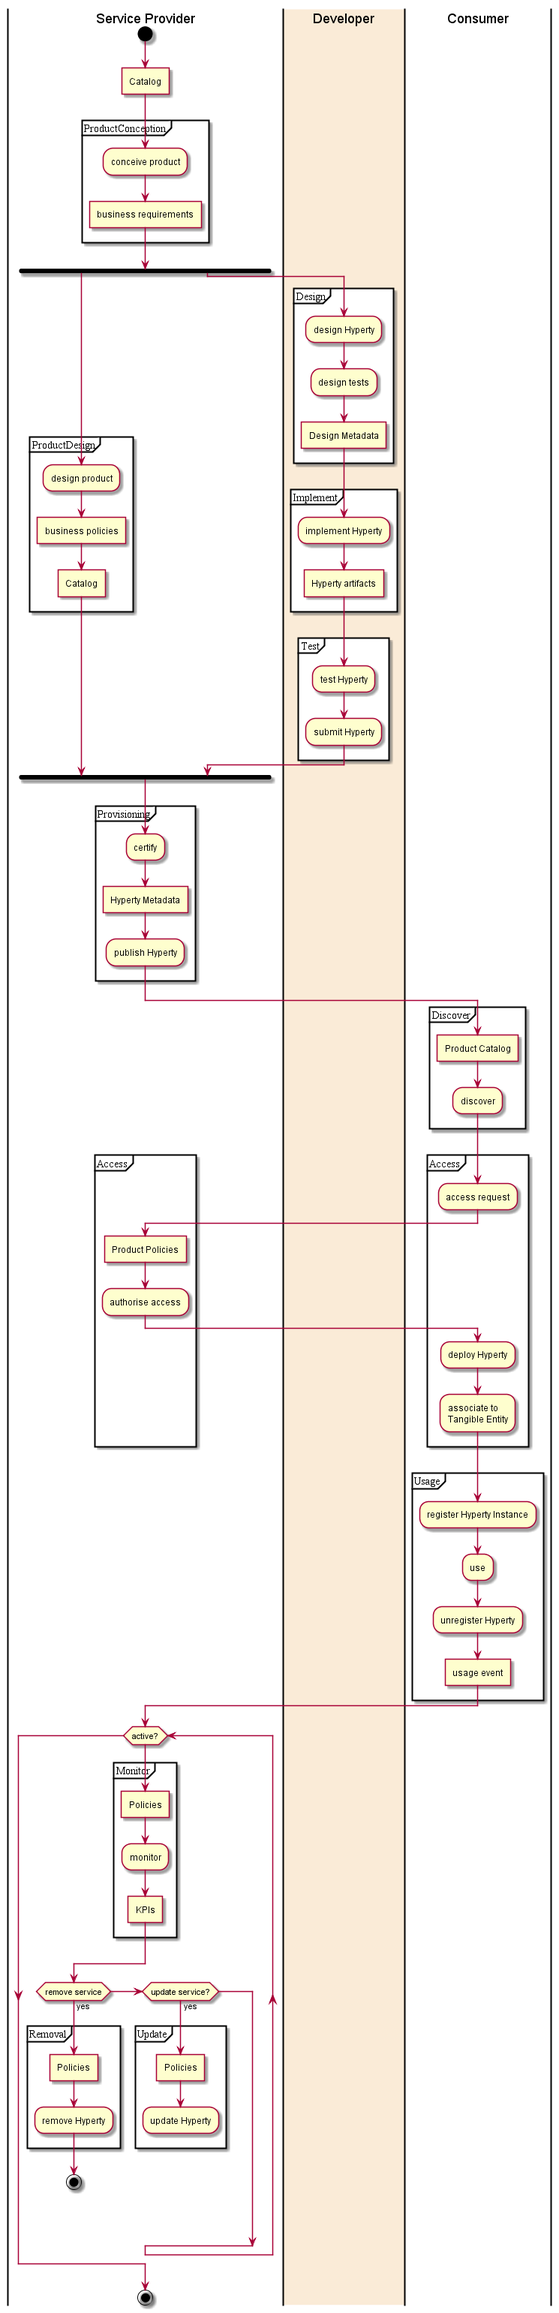
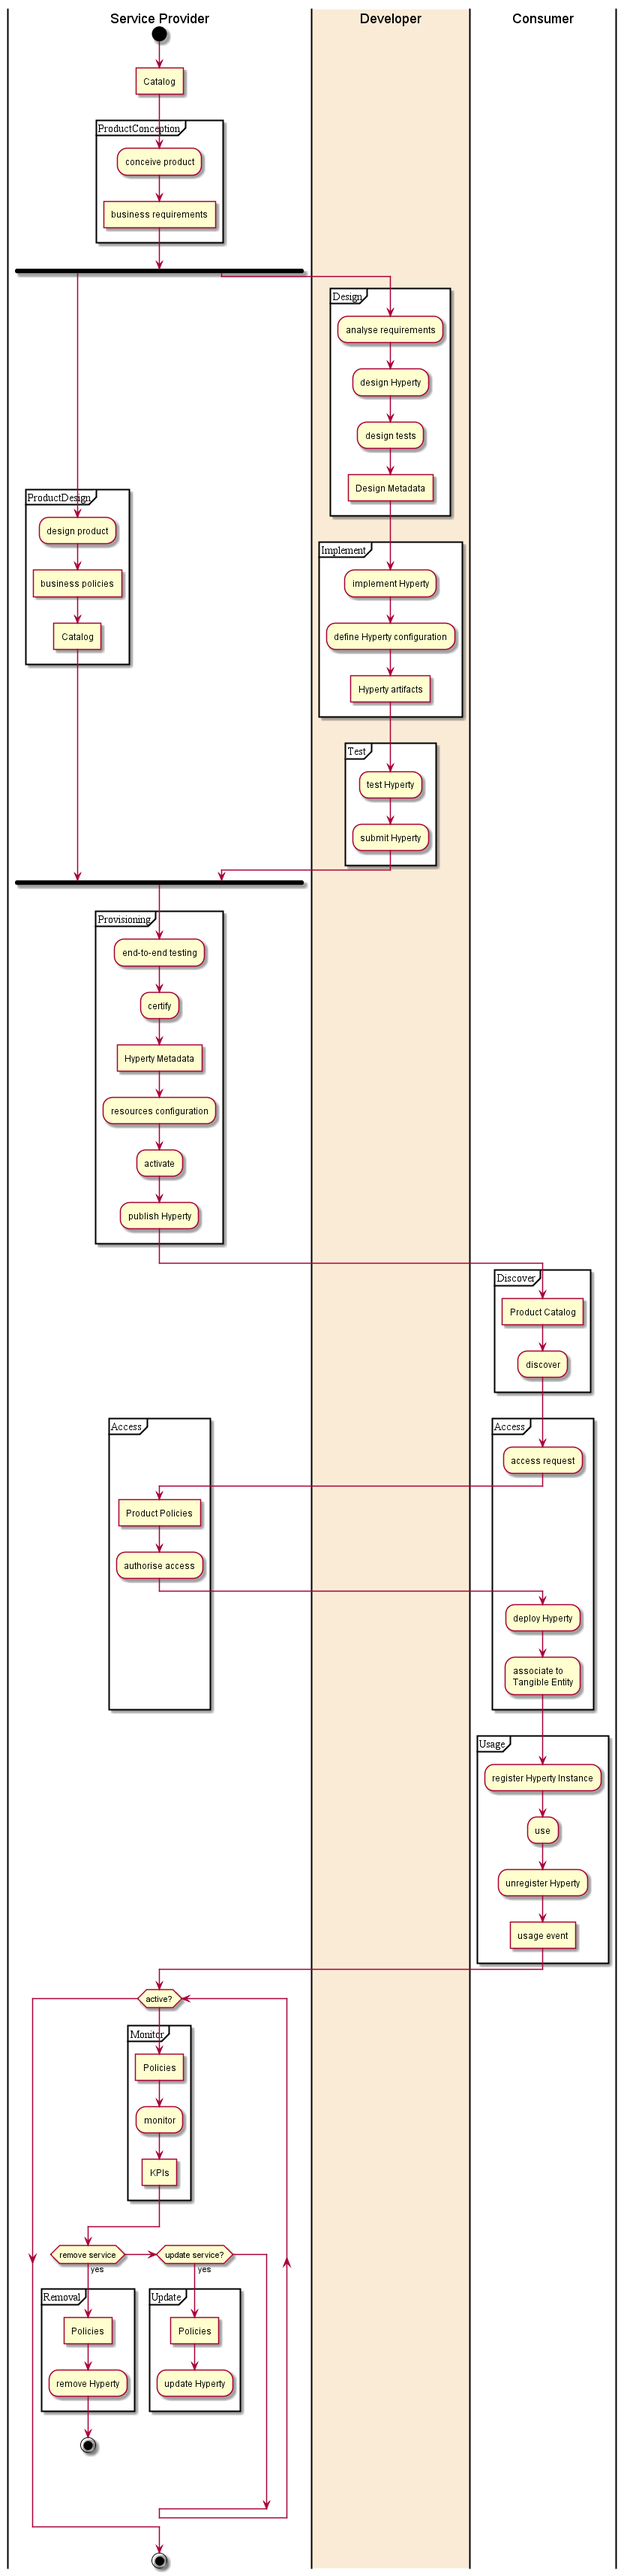
hyperty-life-cycle update

Changed region(s): [[0.0, 0.0, 1.0, 1.0], [0.5866, 0.0, 0.6483, 0.0311]]

diff --git a/docs/D1.1/business processes/hyperty-life-cycle.md b/docs/D1.1/business processes/hyperty-life-cycle.md
@@ -21,6 +21,7 @@ partition ProductDesign {
 
 |#AntiqueWhite|Developer|
 partition Design {
+	:analyse requirements;
     :design Hyperty;
     :design tests;
     :Design Metadata]
@@ -28,6 +29,7 @@ partition Design {
 
 partition Implement {
     :implement Hyperty;
+    :define Hyperty configuration;
     :Hyperty artifacts]
 }
 
@@ -39,8 +41,11 @@ partition Test {
 |Service Provider|
     end fork
 partition Provisioning {
+	:end-to-end testing;
 	:certify;
 	:Hyperty Metadata]
+	:resources configuration;
+	:activate;
 	:publish Hyperty;
 	}
 
